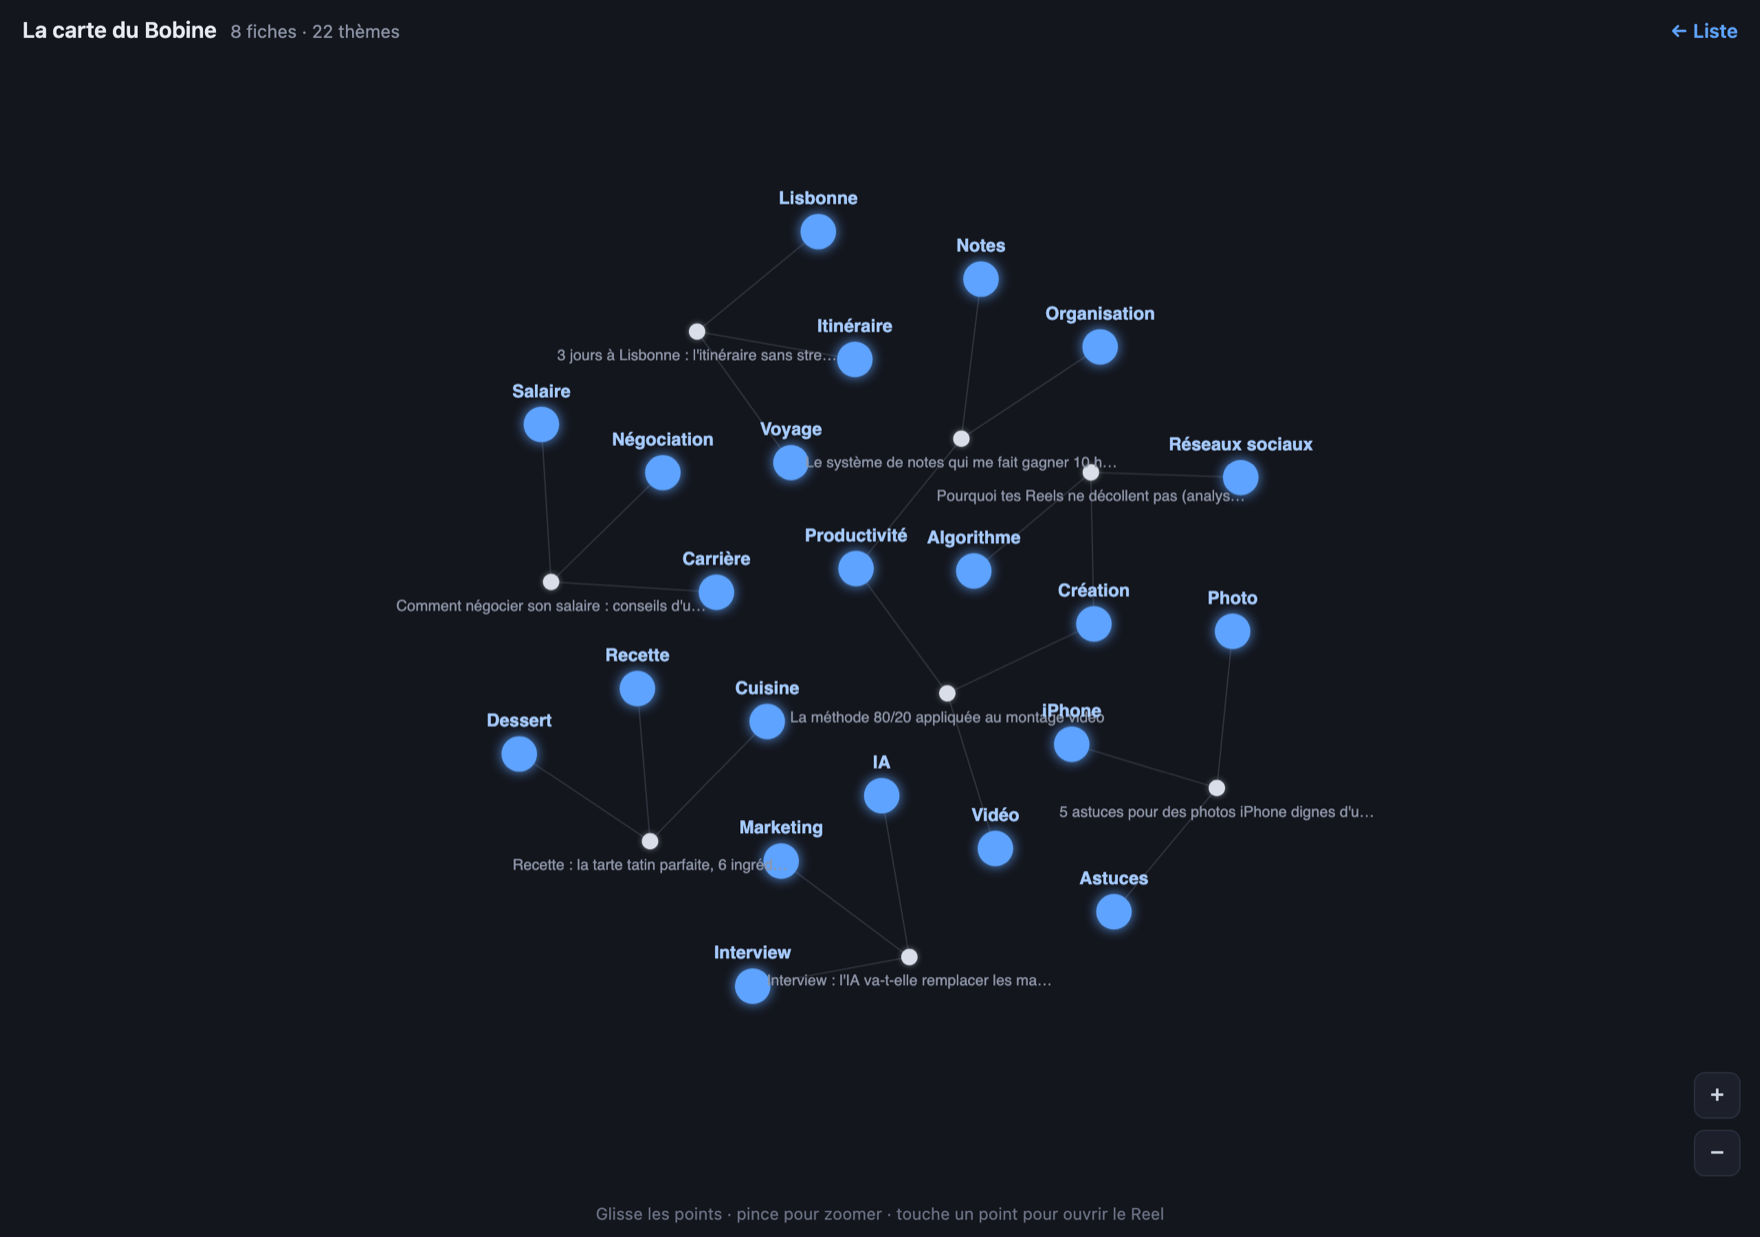
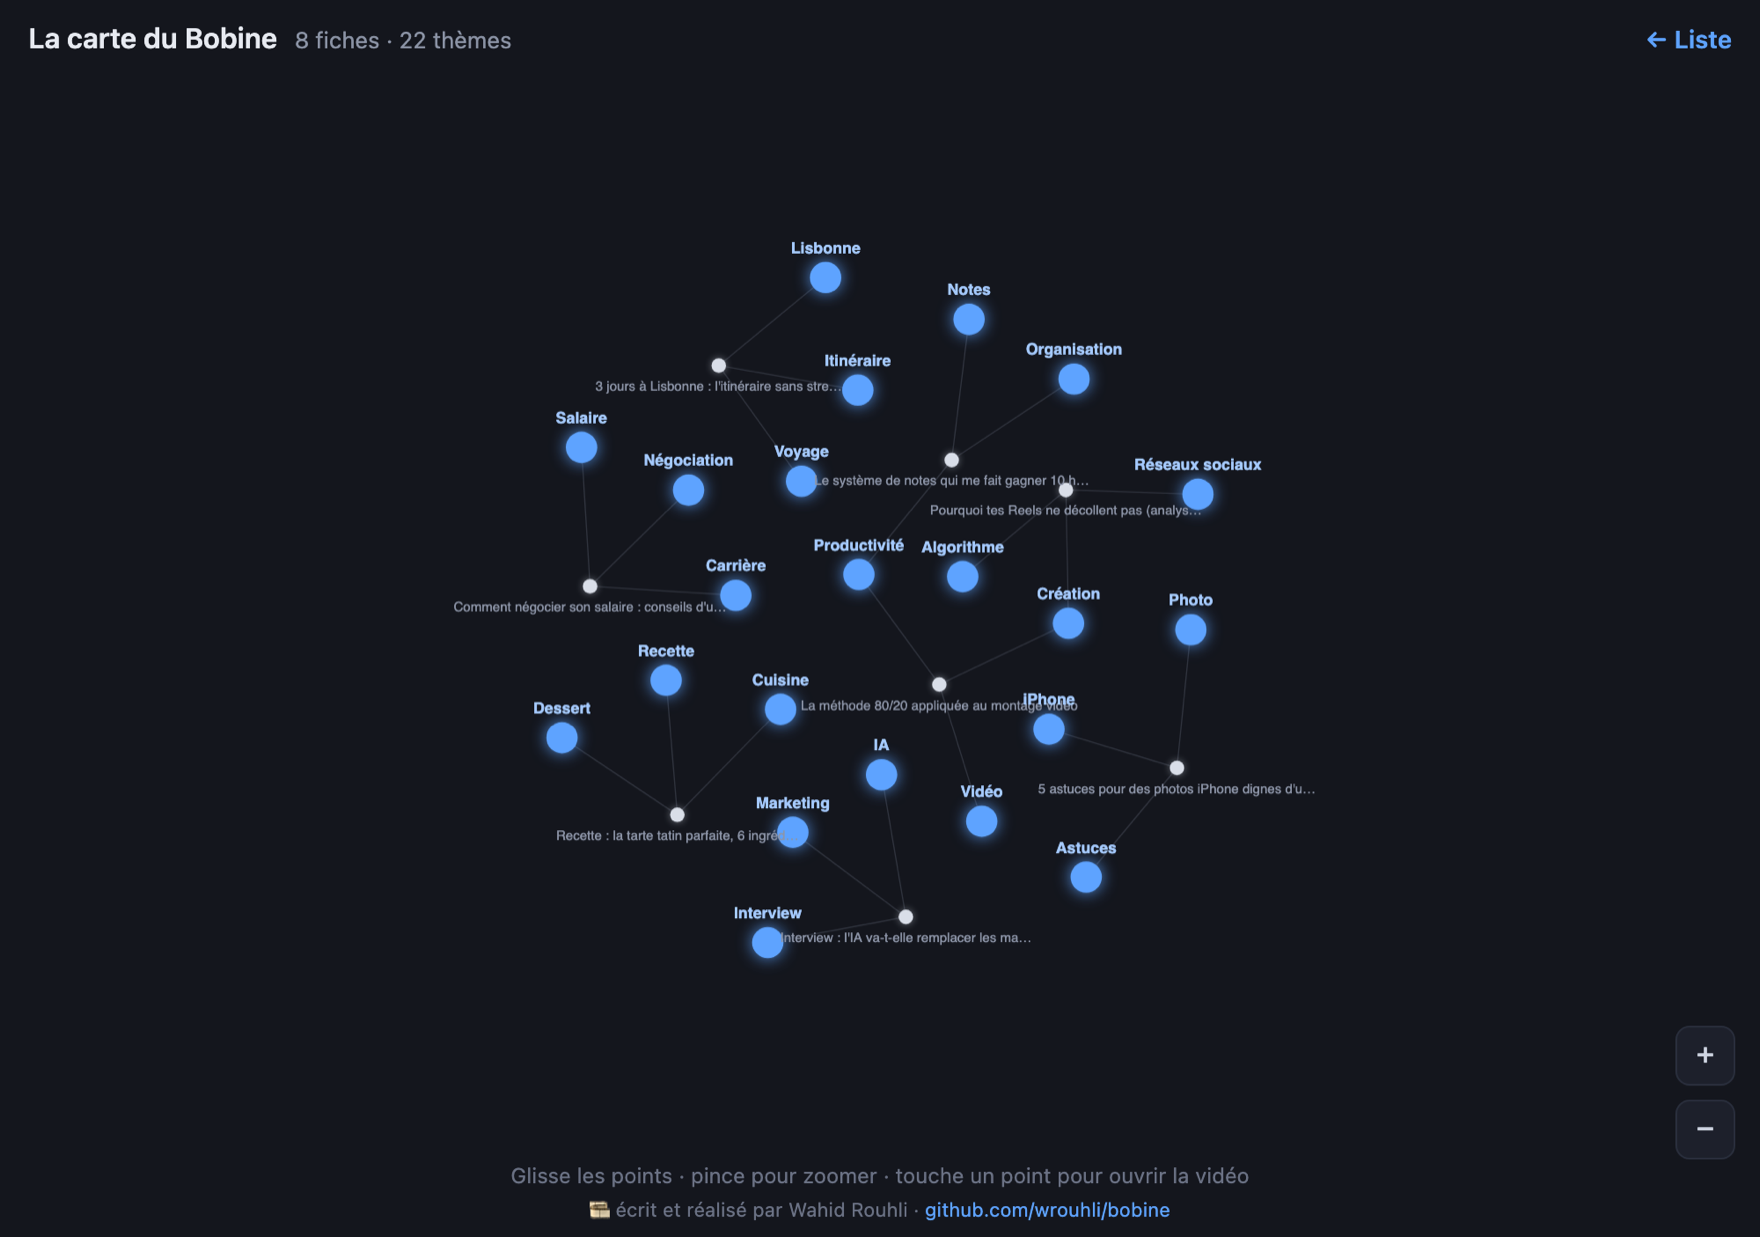
🔤 Libellés : « mes vidéos sauvegardées » (plus seulement « Reels ») + captures du README rafraîchies

diff --git a/generate_page.py b/generate_page.py
@@ -118,7 +118,7 @@ TEMPLATE_LISTE = r"""<!DOCTYPE html>
 <head>
 <meta charset="utf-8">
 <meta name="viewport" content="width=device-width, initial-scale=1">
-<title>Vault — mes Reels sauvegardés</title>
+<title>Vault — mes vidéos sauvegardées</title>
 <style>
   :root { --bg:#f5f6f8; --card:#fff; --txt:#1b1e24; --muted:#69707d;
           --accent:#0b7cff; --chip:#eef1f5; }
@@ -159,7 +159,7 @@ TEMPLATE_LISTE = r"""<!DOCTYPE html>
 </head>
 <body>
 <header>
-  <h1>Vault — mes Reels sauvegardés <span id="stats">__STATS__</span> <a href="graph.html">Carte &#128376;</a></h1>
+  <h1>Vault — mes vidéos sauvegardées <span id="stats">__STATS__</span> <a href="graph.html">Carte &#128376;</a></h1>
   <input id="q" type="search" placeholder="Rechercher (titre, contenu, auteur)…" autocomplete="off">
   <div id="themes">__CHIPS__</div>
 </header>
@@ -254,7 +254,7 @@ TEMPLATE_GRAPHE = r"""<!DOCTYPE html>
   <a href="vault.html">← Liste</a>
 </header>
 <div id="zoom"><button id="zi">+</button><button id="zo">−</button></div>
-<div id="hint">Glisse les points · pince pour zoomer · touche un point pour ouvrir le Reel</div>
+<div id="hint">Glisse les points · pince pour zoomer · touche un point pour ouvrir la vidéo</div>
 <div id="signature">🎞 écrit et réalisé par Wahid Rouhli · <a href="https://github.com/wrouhli/bobine">github.com/wrouhli/bobine</a></div>
 <canvas id="c"></canvas>
 __SVG__
@@ -602,7 +602,7 @@ def main():
             .replace("__STATS__", str(len(entrees)) + " / " + str(len(entrees)))
             .replace("__DATE__", datetime.now().strftime("%d/%m/%Y %H:%M"))
             .replace("__COUNT__", str(len(entrees)))
-            .replace("Vault — mes Reels sauvegardés", nom_html + " — mes Reels sauvegardés"))
+            .replace("Vault — mes vidéos sauvegardées", nom_html + " — mes vidéos sauvegardées"))
     if not carte:
         page = page.replace(lien_carte, "")
     (vault / "vault.html").write_text(page, encoding="utf-8")

diff --git a/linux/generate_page.py b/linux/generate_page.py
@@ -118,7 +118,7 @@ TEMPLATE_LISTE = r"""<!DOCTYPE html>
 <head>
 <meta charset="utf-8">
 <meta name="viewport" content="width=device-width, initial-scale=1">
-<title>Vault — mes Reels sauvegardés</title>
+<title>Vault — mes vidéos sauvegardées</title>
 <style>
   :root { --bg:#f5f6f8; --card:#fff; --txt:#1b1e24; --muted:#69707d;
           --accent:#0b7cff; --chip:#eef1f5; }
@@ -159,7 +159,7 @@ TEMPLATE_LISTE = r"""<!DOCTYPE html>
 </head>
 <body>
 <header>
-  <h1>Vault — mes Reels sauvegardés <span id="stats">__STATS__</span> <a href="graph.html">Carte &#128376;</a></h1>
+  <h1>Vault — mes vidéos sauvegardées <span id="stats">__STATS__</span> <a href="graph.html">Carte &#128376;</a></h1>
   <input id="q" type="search" placeholder="Rechercher (titre, contenu, auteur)…" autocomplete="off">
   <div id="themes">__CHIPS__</div>
 </header>
@@ -254,7 +254,7 @@ TEMPLATE_GRAPHE = r"""<!DOCTYPE html>
   <a href="vault.html">← Liste</a>
 </header>
 <div id="zoom"><button id="zi">+</button><button id="zo">−</button></div>
-<div id="hint">Glisse les points · pince pour zoomer · touche un point pour ouvrir le Reel</div>
+<div id="hint">Glisse les points · pince pour zoomer · touche un point pour ouvrir la vidéo</div>
 <div id="signature">🎞 écrit et réalisé par Wahid Rouhli · <a href="https://github.com/wrouhli/bobine">github.com/wrouhli/bobine</a></div>
 <canvas id="c"></canvas>
 __SVG__
@@ -602,7 +602,7 @@ def main():
             .replace("__STATS__", str(len(entrees)) + " / " + str(len(entrees)))
             .replace("__DATE__", datetime.now().strftime("%d/%m/%Y %H:%M"))
             .replace("__COUNT__", str(len(entrees)))
-            .replace("Vault — mes Reels sauvegardés", nom_html + " — mes Reels sauvegardés"))
+            .replace("Vault — mes vidéos sauvegardées", nom_html + " — mes vidéos sauvegardées"))
     if not carte:
         page = page.replace(lien_carte, "")
     (vault / "vault.html").write_text(page, encoding="utf-8")

diff --git a/CHANGELOG.md b/CHANGELOG.md
@@ -4,6 +4,9 @@
 
 🐧 **Édition Linux/VPS** — le portage serveur rejoint le dépôt : dossier `linux/` (installeur guidé, réveil systemd, boîte de réception locale, serveur de liens `POST /push`, page à distance). Le cœur (ingestion, transcription, résumés, pages) est partagé avec l'édition Mac ; la CI teste les deux et garde un garde-fou : le cœur ne peut pas dériver.
 
+- 🧹 **Accueil deux éditions** : bannière neutre (Mac ou serveur), badges de plateforme propres, README de vault dédié côté Mac.
+- 🔤 **Libellés des pages** : « mes vidéos sauvegardées » — Reels, TikTok et YouTube ; l'astuce de la carte dit « ouvrir la vidéo ». Captures du README rafraîchies.
+
 ## v1.1.0 — 7 octobre 2026
 
 L'import de masse 🎛
